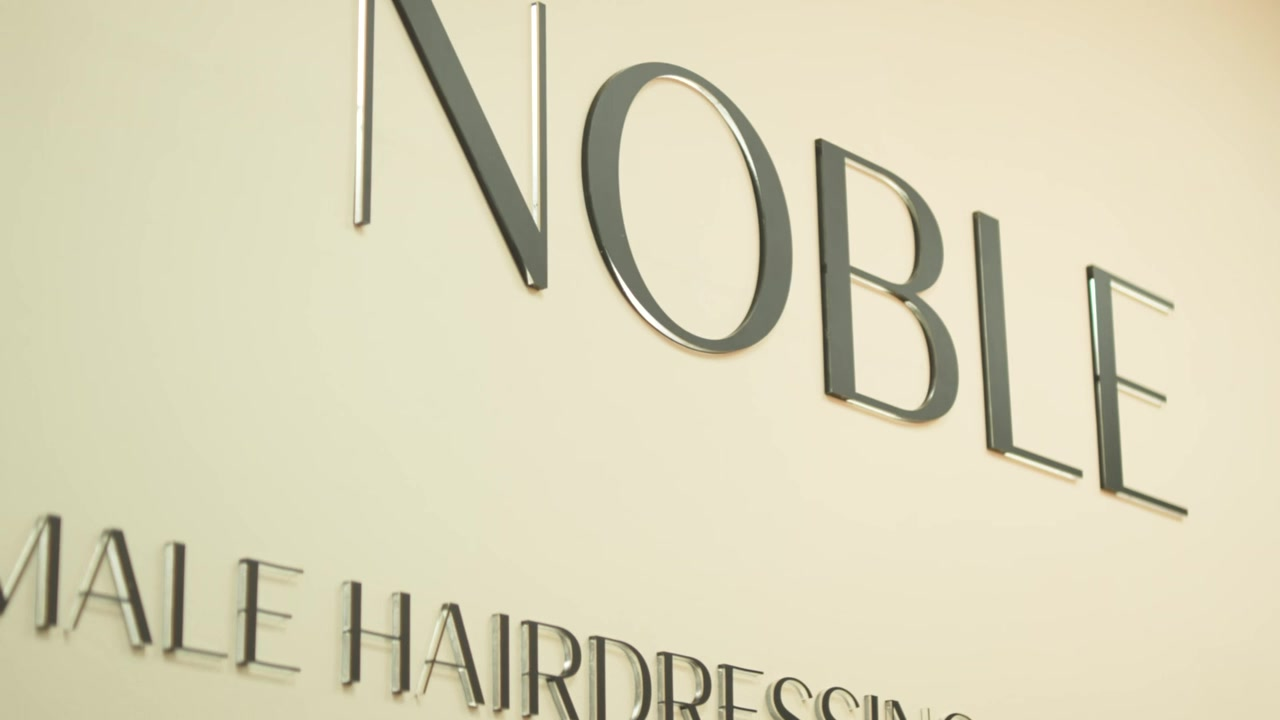
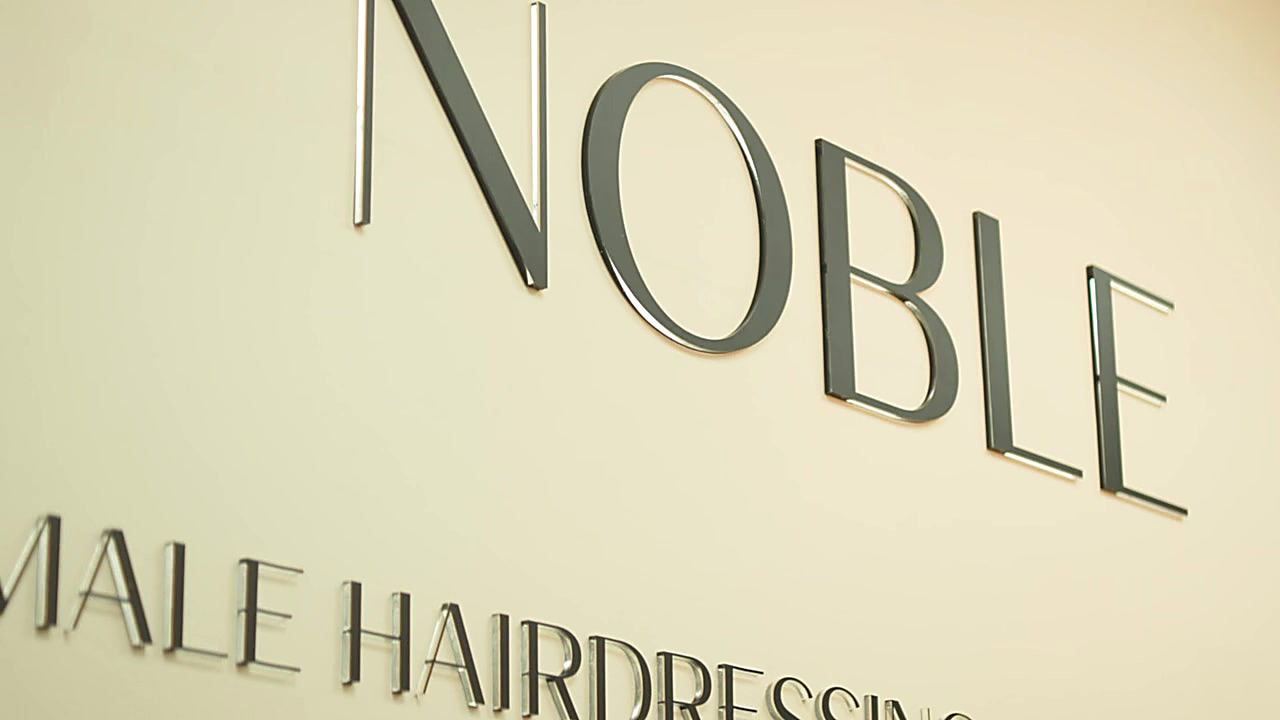
Galeria: eredeti 16:9 arany vagas nelkul + nagyobb megjelenites + elesites
- Eddig 4:3-as dobozokba vagtam a 16:9-es kockakat -> levagta a kompozicio
  szelet es feleslegesen kicsinyitette oket
- 3 oszlop (~368px) helyett 2 oszlop (~570px): retinan ~1140px, amit az
  1280px-es forras meg fedi, tehat nincs felnagyitas
- A kepek finom unsharp elesitest kaptak (videokocka lagyabb mint egy foto)
  es 92-es JPEG minosegben, 4:4:4 szinmintavetellel mentve

diff --git a/app/src/components/Gallery.tsx b/app/src/components/Gallery.tsx
@@ -34,21 +34,30 @@ export default function Gallery() {
 
         {hasPhotos ? (
           <>
-            {/* A képek SZÍNESEN jelennek meg — hoverre finoman ráközelítenek. */}
-            <div className="mt-16 grid grid-cols-2 gap-3 sm:gap-4 lg:grid-cols-3">
+            {/*
+              A képek SZÍNESEN és a saját 16:9 arányukban jelennek meg — nincs
+              négyzetes/4:3-as vágás, mert a forrás (a reklámfilm kockái) 16:9,
+              és a kényszerített arány levágná a kompozíció szélét.
+
+              Két oszlop, hogy elég nagyok legyenek: így egy kép ~570 CSS px,
+              retina kijelzőn ~1140 px — ezt az 1280 px-es forrás még fedi,
+              tehát nem lesz felnagyítva.
+            */}
+            <div className="mt-16 grid grid-cols-1 gap-4 sm:grid-cols-2 sm:gap-5">
               {galleryImages.map((img, i) => (
                 <Reveal
                   key={img.src}
-                  delay={(i % 3) * 90}
-                  from={i % 3 === 0 ? "left" : i % 3 === 2 ? "right" : "up"}
+                  delay={(i % 2) * 110}
+                  from={i % 2 === 0 ? "left" : "right"}
                 >
-                  <figure className="group relative aspect-[4/3] overflow-hidden bg-black">
+                  <figure className="group relative aspect-video overflow-hidden bg-black">
                     <Image
                       src={asset(img.src)}
                       alt={img.alt}
                       fill
-                      sizes="(max-width: 640px) 50vw, (max-width: 1024px) 33vw, 368px"
-                      className="object-cover transition-transform duration-[900ms] ease-out group-hover:scale-[1.07]"
+                      quality={90}
+                      sizes="(max-width: 640px) 92vw, (max-width: 1152px) 48vw, 570px"
+                      className="object-cover transition-transform duration-[900ms] ease-out group-hover:scale-[1.05]"
                     />
                   </figure>
                 </Reveal>
